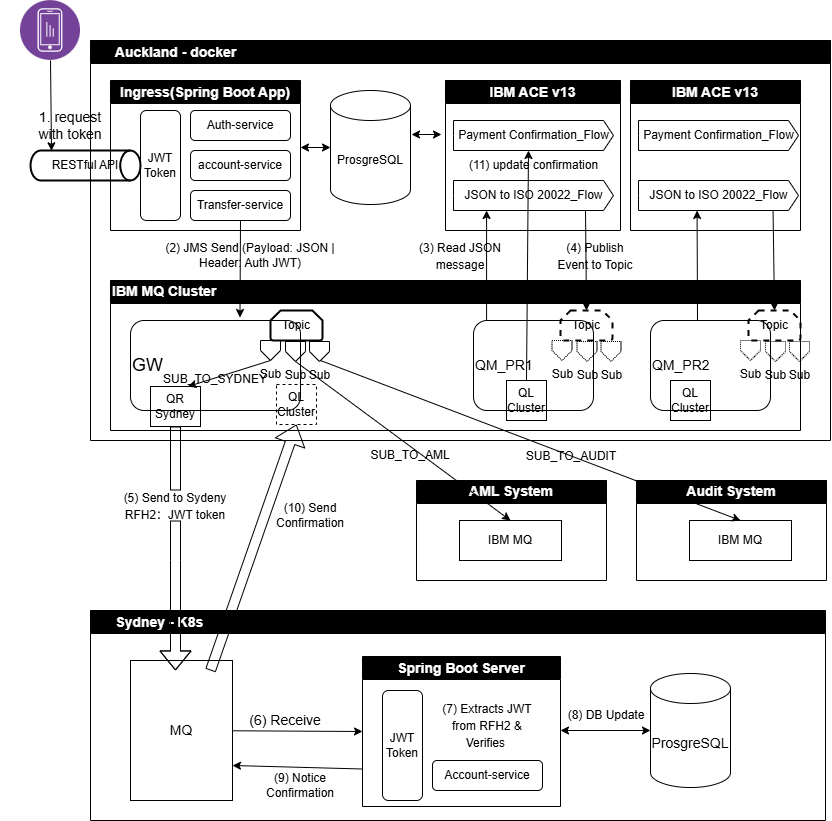
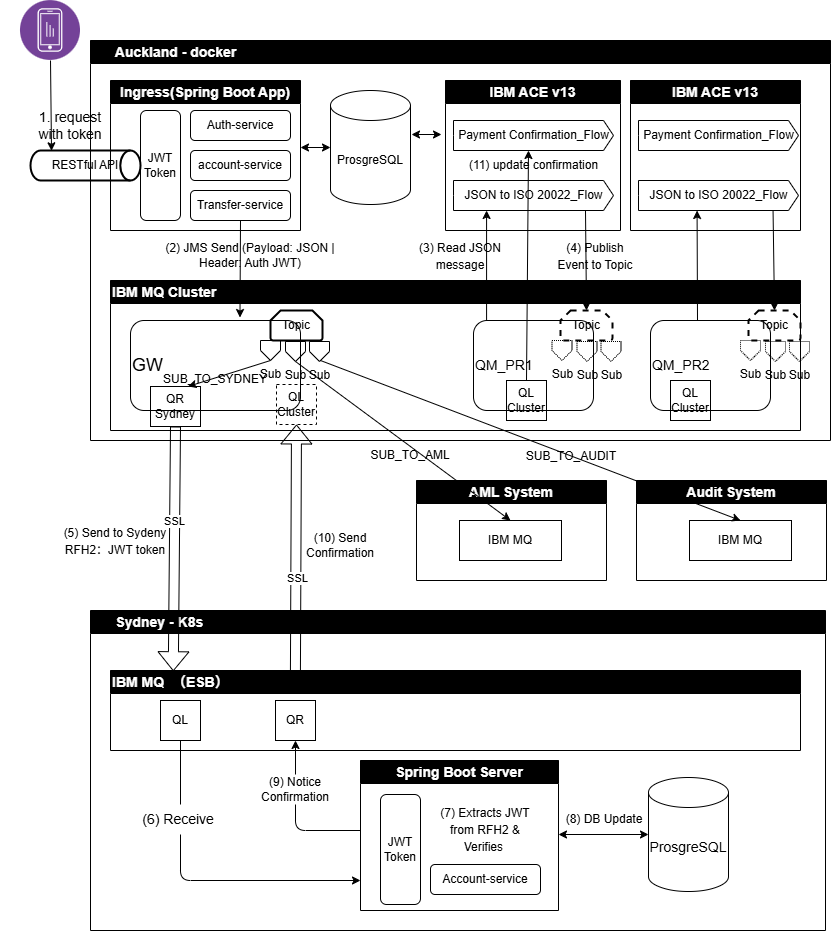
refactor: update Sydney K8s architecture diagram to include IBM MQ service and refine component layout

Changed region(s): [[0.0301, 0.0, 1.0, 1.0], [0.1504, 0.8526, 0.2407, 0.9135], [0.8123, 0.944, 0.8724, 0.9744]]

diff --git a/README.md b/README.md
@@ -1,4 +1,4 @@
-# Cross-Tasman ISO 20022 Payment Integration Gateway (CT-PIG)
+# Cross-Tasman Payment 
 ### 🚀 Cloud-Native Active-Active Integration Architecture (Auckland ⇆ Sydney)
 
 [![Platform](https://img.shields.io/badge/Platform-IBM%20MQ%209.4%20%7C%20ACE%2013-blue.svg)](https://www.ibm.com/products/app-connect)
